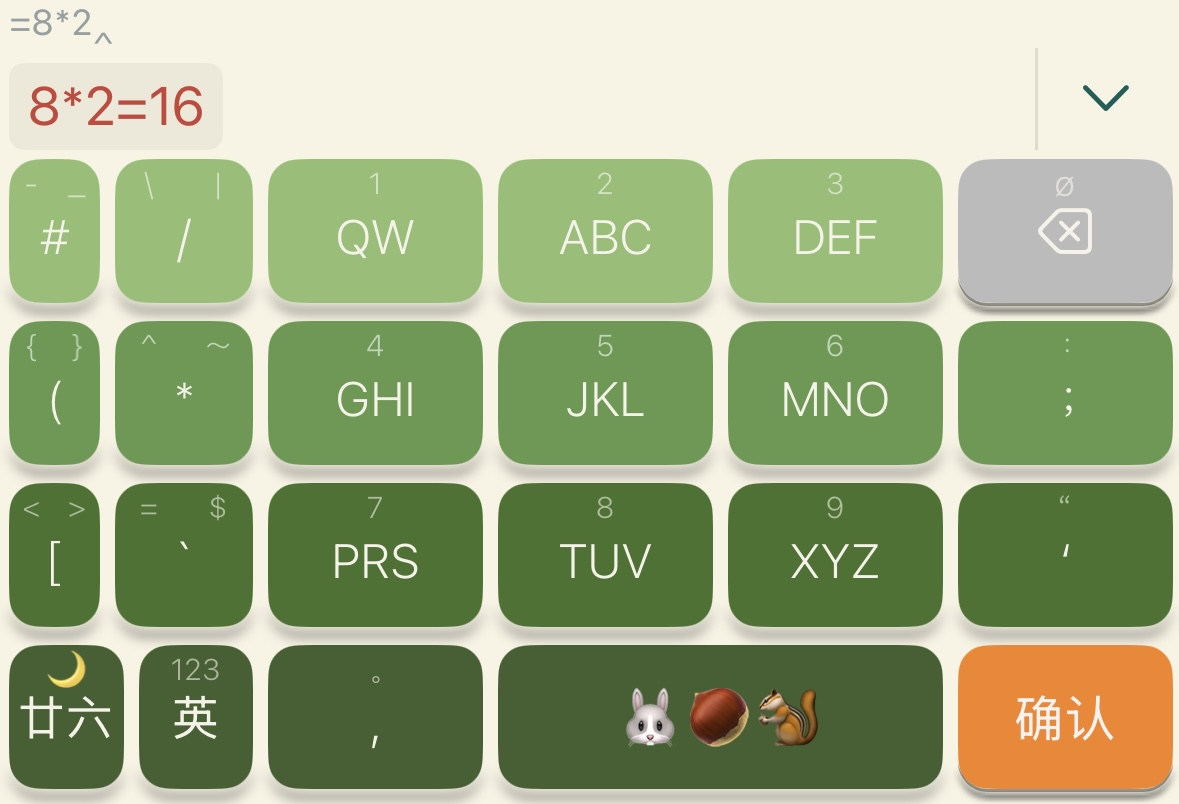
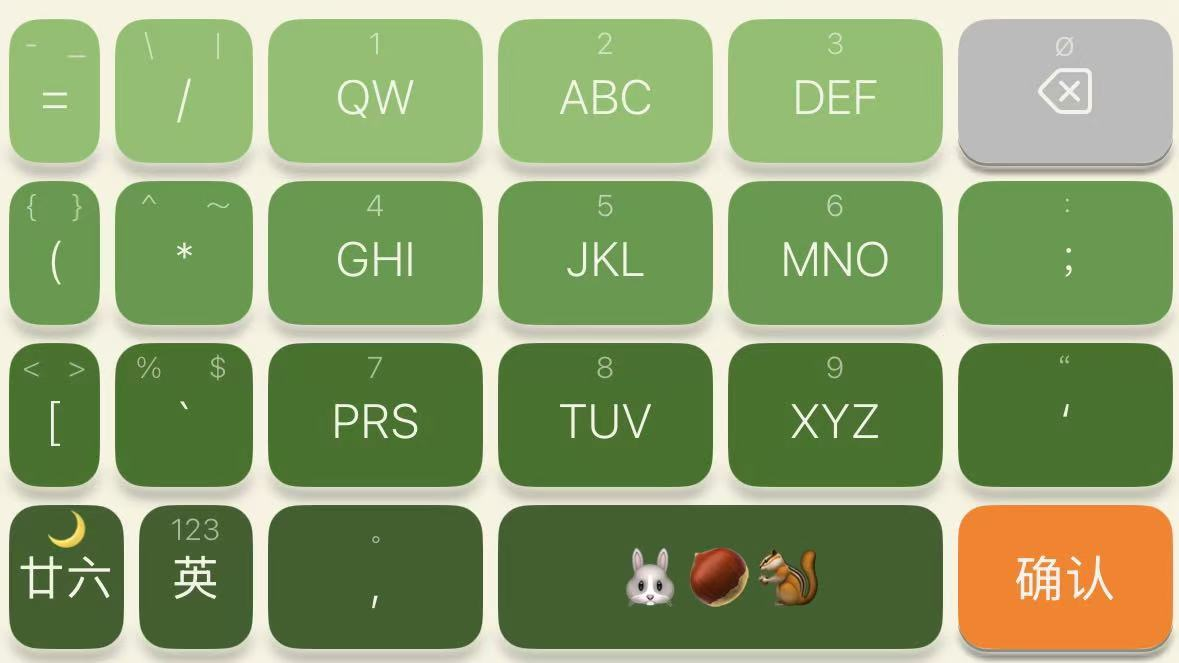
change symbols on keyboard

diff --git a/README.md b/README.md
@@ -114,7 +114,7 @@
 
   1. 包括配套的中文全键在内，大部分上划符号由Rime控制（打出中文符号），下划打出英文符号；中文符号也是尽可能都设为半角，以提高兼容性。
   2. 左侧 Markdown 符号区：除要用到 rime 功能的特殊符号`` =/*` ``外，都是直接上屏英文符号；
-  3. 点击数字键`2`/`3`后按回车，会打出`%`/`&`（这个设定是为了留出位置以满足`;`二选和`'`三选功能）；
+  3. 点击数字键`2`/`3`后按回车，会打出`@`/`#`（这个设定是为了留出位置以满足`;`二选和`'`三选功能）；
   4. 斜杠`/`：左右划动可选择输入方案；
   5. 星号`*`：左右划动可在候选框中开关 emoji（改自虎码方案）；
   6. 反引号`` ` ``：左右划动快速定位行首、行尾；
